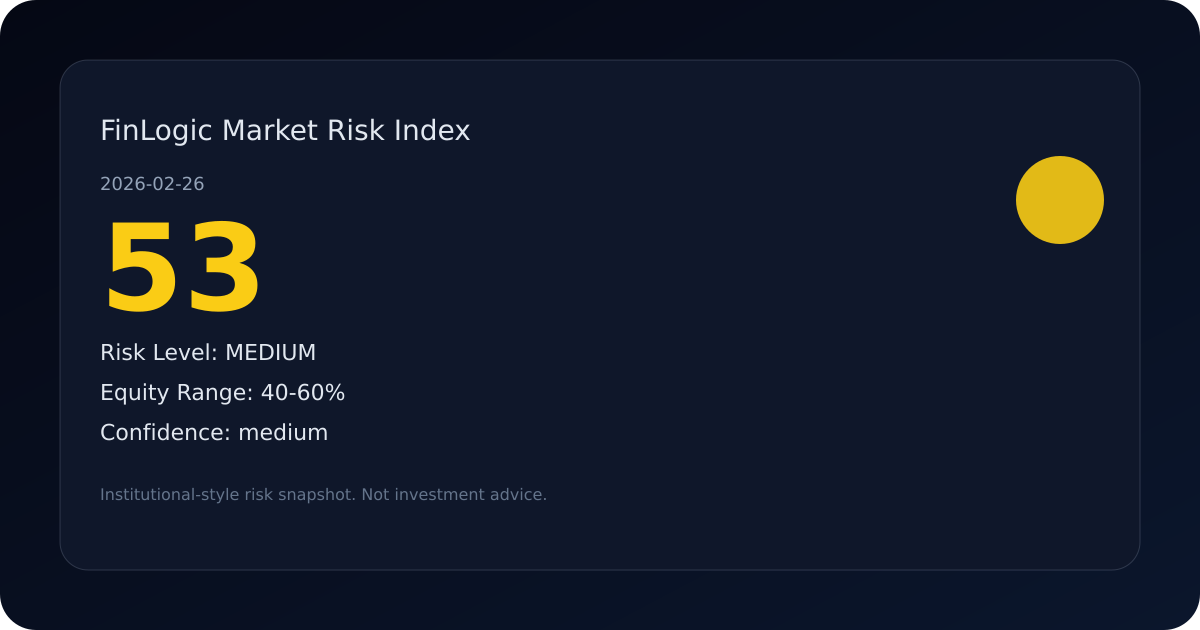
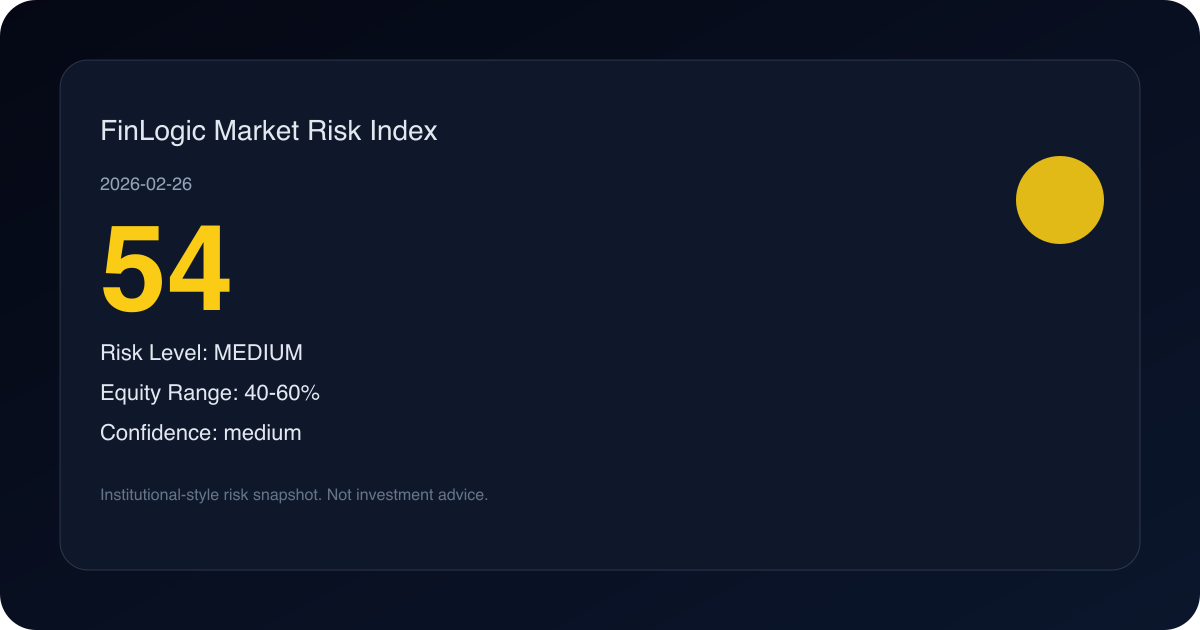
Feat: v2 share text generation

diff --git a/public/daily/2026-02-26.html b/public/daily/2026-02-26.html
@@ -5,12 +5,12 @@
   <meta name="viewport" content="width=device-width, initial-scale=1.0">
   <meta name="robots" content="index,follow">
   <meta name="theme-color" content="#0f172a">
-  <meta name="description" content="2026-02-26市场风险灯为多云，风险分53，仓位区间40-60%。主题Top为Cybersecurity、Energy、Consumer，Bottom为AI、Healthcare、Defense，用于观察市场气候与风险偏好变化，仅作风险感知。">
+  <meta name="description" content="2026-02-26市场风险灯为多云，风险分54，仓位区间40-60%。主题Top为Cybersecurity、Energy、Consumer，Bottom为AI、Defense、Healthcare，用于观察市场气候与风险偏好变化，仅作风险感知。">
   <title>2026-02-26 市场风险状态 - FinLogicHub5</title>
   <link rel="canonical" href="https://finlogichub5.com/daily/2026-02-26.html">
   <meta property="og:type" content="website">
   <meta property="og:title" content="2026-02-26 市场风险状态 - FinLogicHub5">
-  <meta property="og:description" content="2026-02-26市场风险灯为多云，风险分53，仓位区间40-60%。主题Top为Cybersecurity、Energy、Consumer，Bottom为AI、Healthcare、Defense，用于观察市场气候与风险偏好变化，仅作风险感知。">
+  <meta property="og:description" content="2026-02-26市场风险灯为多云，风险分54，仓位区间40-60%。主题Top为Cybersecurity、Energy、Consumer，Bottom为AI、Defense、Healthcare，用于观察市场气候与风险偏好变化，仅作风险感知。">
   <meta property="og:url" content="https://finlogichub5.com/daily/2026-02-26.html">
   <link rel="preconnect" href="https://fonts.googleapis.com">
   <link rel="preconnect" href="https://fonts.gstatic.com" crossorigin>
@@ -20,7 +20,7 @@
       "@context": "https://schema.org",
       "@type": "WebPage",
       "name": "2026-02-26 市场风险状态",
-      "description": "2026-02-26市场风险灯为多云，风险分53，仓位区间40-60%。主题Top为Cybersecurity、Energy、Consumer，Bottom为AI、Healthcare、Defense，用于观察市场气候与风险偏好变化，仅作风险感知。",
+      "description": "2026-02-26市场风险灯为多云，风险分54，仓位区间40-60%。主题Top为Cybersecurity、Energy、Consumer，Bottom为AI、Defense、Healthcare，用于观察市场气候与风险偏好变化，仅作风险感知。",
       "inLanguage": "zh-CN",
       "url": "https://finlogichub5.com/daily/2026-02-26.html",
       "datePublished": "2026-02-26",
@@ -94,10 +94,10 @@
           <div class="lamp risk-yellow">🟡</div>
           <div>
             <div class="note">风险分</div>
-            <div class="score risk-yellow">53</div>
+            <div class="score risk-yellow">54</div>
             <div class="note">仓位区间 40-60%</div>
-            <div class="note">Δ 昨日 -10</div>
-            <div class="note">组件：趋势 25 / 压力 25 / 风险偏好 75</div>
+            <div class="note">Δ 昨日 -9</div>
+            <div class="note">组件：趋势 75 / 压力 25 / 风险偏好 75</div>
           </div>
         </div>
         <div class="badge">风险灯 · 多云 · medium</div>
@@ -108,42 +108,42 @@
         </details>
         <details style="margin-top:6px;">
           <summary style="cursor:pointer;color:#93c5fd;font-size:12px;list-style:none;">为何如此？</summary>
-          <div class="note">趋势风险偏低 / 压力风险偏低 / 风险偏好偏弱</div>
+          <div class="note">趋势风险偏高 / 压力风险偏低 / 风险偏好偏弱</div>
           <div class="note">
-            Trend 6
+            Trend 16
             <div style="height:8px;background:rgba(148,163,184,0.2);border-radius:999px;overflow:hidden;margin:4px 0 8px 0;">
-              <div style="height:100%;background:linear-gradient(90deg,#38bdf8,#22d3ee);width:6%"></div>
+              <div style="height:100%;background:linear-gradient(90deg,#38bdf8,#22d3ee);width:16%"></div>
             </div>
           </div>
           <div class="note">
-            Stress 14
+            Stress 11
             <div style="height:8px;background:rgba(148,163,184,0.2);border-radius:999px;overflow:hidden;margin:4px 0 8px 0;">
-              <div style="height:100%;background:linear-gradient(90deg,#38bdf8,#22d3ee);width:14%"></div>
+              <div style="height:100%;background:linear-gradient(90deg,#38bdf8,#22d3ee);width:11%"></div>
             </div>
           </div>
           <div class="note">
-            Regime 33
+            Regime 27
             <div style="height:8px;background:rgba(148,163,184,0.2);border-radius:999px;overflow:hidden;margin:4px 0 8px 0;">
-              <div style="height:100%;background:linear-gradient(90deg,#38bdf8,#22d3ee);width:33%"></div>
+              <div style="height:100%;background:linear-gradient(90deg,#38bdf8,#22d3ee);width:27%"></div>
             </div>
           </div>
-          <div class="note">Trend: 趋势风险25：价格在MA200上方（rule: close_vs_ma200） / Stress: 压力风险25：vol20 15.5%（rule: vol20_threshold） / Regime: 偏好风险75：risk-off 比率走弱（rule: ratio_down_20d）</div>
+          <div class="note">Trend: 趋势风险75：价格在MA200下方（rule: close_vs_ma200） / Stress: 压力风险25：vol20 16.6%（rule: vol20_threshold） / Regime: 偏好风险75：risk-off 比率走弱（rule: ratio_down_20d）</div>
         </details>
       </div>
       <div class="card">
         <div style="font-weight:700; margin-bottom:6px;">主题热度榜 Top 3</div>
-        <div class="theme-row"><span>Cybersecurity</span><span>69</span></div><div class="note">20D 走强 +9.3%</div><div class="theme-row"><span>Energy</span><span>65</span></div><div class="note">20D 走强 +7.6%</div><div class="theme-row"><span>Consumer</span><span>51</span></div><div class="note">20D 走强 +0.7%</div>
+        <div class="theme-row"><span>Cybersecurity</span><span>65</span></div><div class="note">20D 走强 +7.7%</div><div class="theme-row"><span>Energy</span><span>63</span></div><div class="note">20D 走强 +6.7%</div><div class="theme-row"><span>Consumer</span><span>53</span></div><div class="note">20D 走强 +1.3%</div>
       </div>
       <div class="card">
         <div style="font-weight:700; margin-bottom:6px;">主题热度榜 Bottom 3</div>
-        <div class="theme-row"><span>AI</span><span>25</span></div><div class="note">20D 回撤 -12.4%</div><div class="theme-row"><span>Healthcare</span><span>39</span></div><div class="note">20D 回撤 -5.4%</div><div class="theme-row"><span>Defense</span><span>47</span></div><div class="note">20D 回撤 -1.3%</div>
+        <div class="theme-row"><span>AI</span><span>26</span></div><div class="note">20D 回撤 -12.0%</div><div class="theme-row"><span>Defense</span><span>40</span></div><div class="note">20D 回撤 -5.0%</div><div class="theme-row"><span>Healthcare</span><span>45</span></div><div class="note">20D 回撤 -2.7%</div>
       </div>
       <div class="card">
         <div style="font-weight:700; margin-bottom:6px;">今日要点</div>
-        <ul class="list"><li>SPY 站上 MA200（趋势 +）</li><li>MA50 高于 MA200（中期多头）</li><li>20D 波动率 15.5%（压力可控）</li></ul>
+        <ul class="list"><li>SPY 跌破 MA200（趋势 -）</li><li>MA50 高于 MA200（中期多头）</li><li>20D 波动率 16.6%（压力可控）</li></ul>
       </div>
     </div>
-    <div class="explain">今日市场气候为多云，风险灯显示多云，风险分为53。仓位区间提示权益配置可参考40-60%，用于约束波动与回撤压力。主题热度榜的Top/Bottom反映资金偏好变化，需与趋势健康度、压力和风险偏好共同理解。若风险灯连续偏高，可考虑降低仓位并设置仓位护栏以控制回撤。以上内容仅作历史观察与风险提醒，不构成任何投资建议或收益承诺。</div>
+    <div class="explain">今日市场气候为多云，风险灯显示多云，风险分为54。仓位区间提示权益配置可参考40-60%，用于约束波动与回撤压力。主题热度榜的Top/Bottom反映资金偏好变化，需与趋势健康度、压力和风险偏好共同理解。若风险灯连续偏高，可考虑降低仓位并设置仓位护栏以控制回撤。以上内容仅作历史观察与风险提醒，不构成任何投资建议或收益承诺。</div>
     <div class="footer-links">
       <a href="https://finlogichub5.com/daily/2026-02-25.html">上一天</a>
       

diff --git a/tools/generate_daily.js b/tools/generate_daily.js
@@ -827,13 +827,39 @@ function calcConfidence(components) {
   return { level: "low", reason: "组件分歧小，信号偏弱" };
 }
 
-function generateShareText(riskData, trend) {
+function generateShareText(riskData, trend, delta) {
   const mri = riskData.score ?? 0;
   const riskLevel = mri < 30 ? "低" : mri <= 70 ? "中性" : "高";
+  const riskLevelEn = riskData.level || "medium";
   const range = riskData.equityRange || "--";
   const confidence = riskData.confidenceLevel || "medium";
-  const trendText = trend === "up" ? "上升" : trend === "down" ? "下降" : "持平";
-  return `MRI ${mri}｜市场风险${riskLevel}。建议仓位${range}。趋势${trendText}，置信度${confidence}。查看→ https://finlogichub5.com`;
+  const confidenceCN = confidence === "high" ? "高" : confidence === "low" ? "低" : "中等";
+  const trendTextCN = trend === "up" ? "风险上行" : trend === "down" ? "风险下降" : "风险稳定";
+  const trendTextEn = trend === "up" ? "up" : trend === "down" ? "down" : "flat";
+  const deltaText = Number.isFinite(delta) ? (delta > 0 ? `+${delta}` : `${delta}`) : "0";
+
+  const cnShareText = [
+    `📊 今日市场风险指数（MRI）：${mri} (${deltaText})`,
+    `风险等级：${riskLevel}`,
+    `建议股票仓位：${range}`,
+    `趋势：${trendTextCN}`,
+    `置信度：${confidenceCN}`,
+    "",
+    "查看完整指数 → https://finlogichub5.com"
+  ].join("\n");
+
+  const enShareText = [
+    `MRI ${mri} (${deltaText})`,
+    "",
+    `Risk Level: ${riskLevelEn}`,
+    `Equity Range: ${range}`,
+    `Trend: ${trendTextEn}`,
+    `Confidence: ${confidence}`,
+    "",
+    "Full report → https://finlogichub5.com"
+  ].join("\n");
+
+  return { cnShareText, enShareText, shareText: cnShareText };
 }
 
 async function main() {
@@ -851,10 +877,13 @@ async function main() {
   };
   daily.dataStatus = status;
 
-  const trend = yesterday?.score
-    ? (daily.riskIndex.score > yesterday.score ? "up" : daily.riskIndex.score < yesterday.score ? "down" : "flat")
-    : "flat";
-  const shareText = generateShareText(daily.riskIndex, trend);
+  const prevScore = Number.isFinite(yesterday?.score) ? yesterday.score : null;
+  const trend = prevScore === null
+    ? "flat"
+    : (daily.riskIndex.score > prevScore ? "up" : daily.riskIndex.score < prevScore ? "down" : "flat");
+  const delta = prevScore === null ? 0 : (daily.riskIndex.score - prevScore);
+  const shareTexts = generateShareText(daily.riskIndex, trend, delta);
+  const shareText = shareTexts.shareText;
   const sharePayload = {
     date: daily.date,
     mri: daily.riskIndex.score,
@@ -862,7 +891,10 @@ async function main() {
     equityRange: daily.riskIndex.equityRange,
     trend,
     confidence: daily.riskIndex.confidenceLevel || "medium",
-    shareText
+    delta,
+    cnShareText: shareTexts.cnShareText,
+    enShareText: shareTexts.enShareText,
+    shareText: shareTexts.shareText
   };
   fs.mkdirSync(DATA_DIR, { recursive: true });
   fs.writeFileSync(OUT_PATH, JSON.stringify(daily, null, 2));
